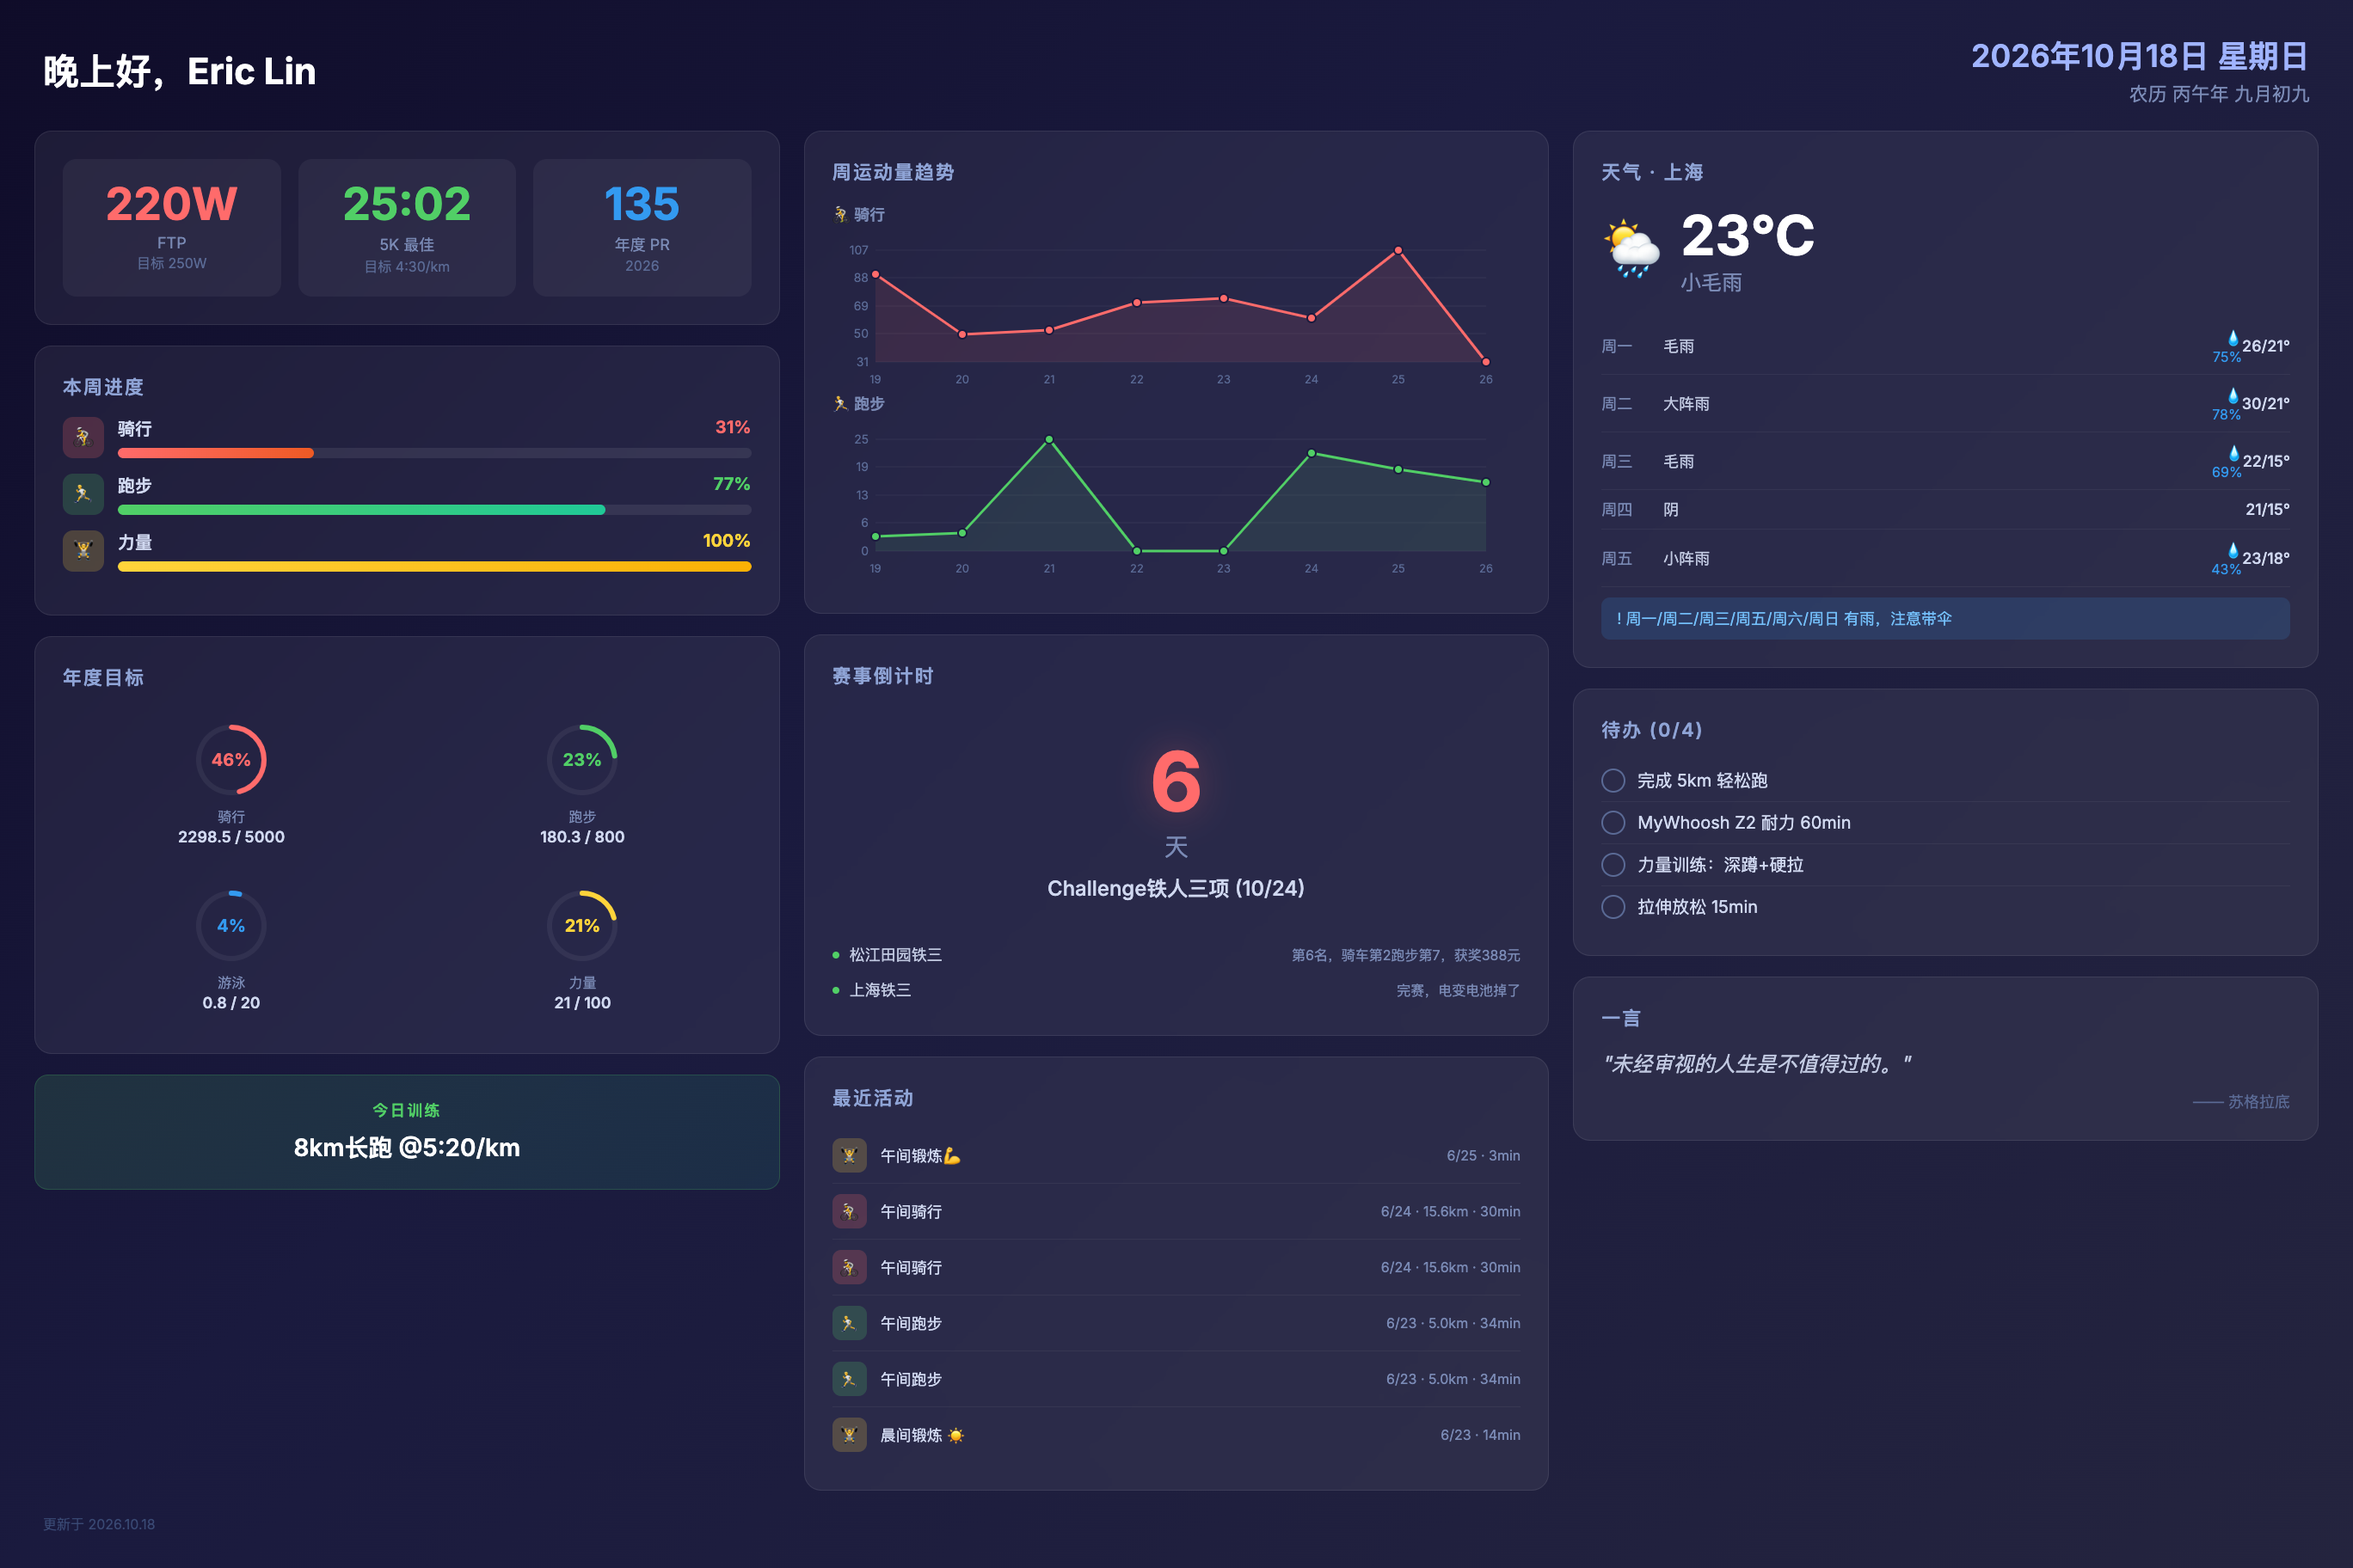
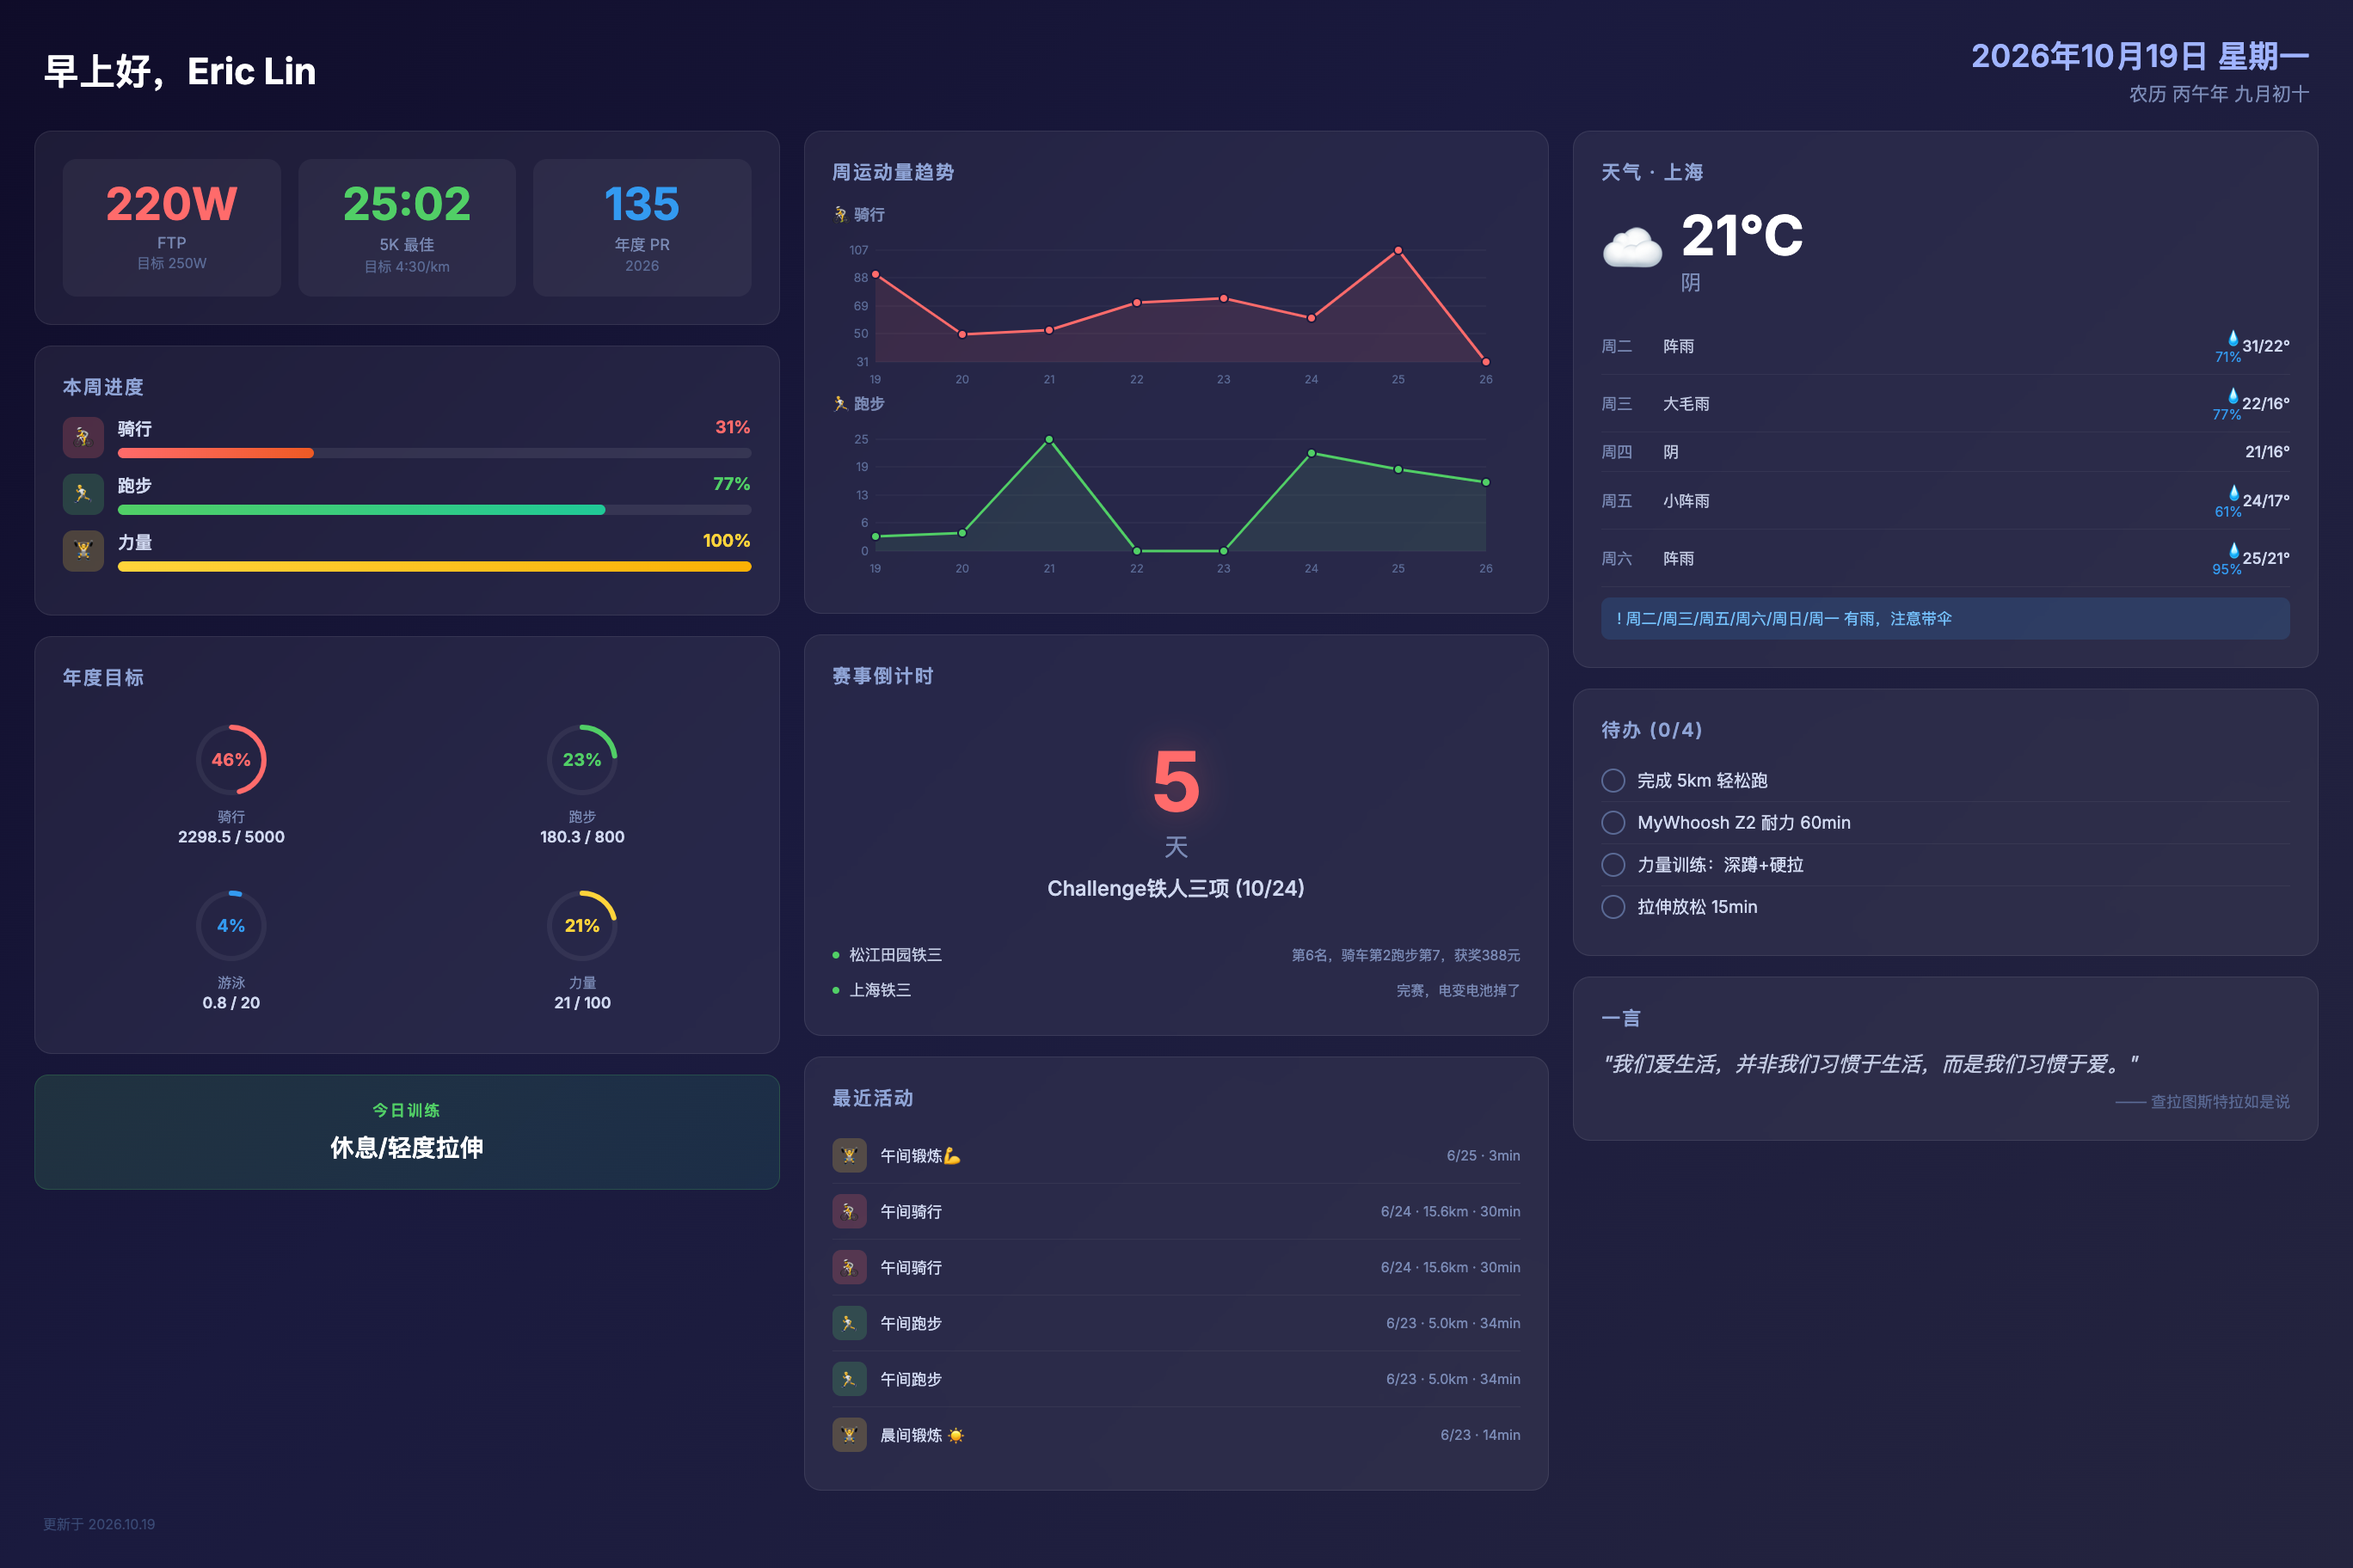
deploy: 2026-10-19-07:00

diff --git a/screensaver.html b/screensaver.html
@@ -490,13 +490,13 @@ html, body {
 <!-- ===== TOP BAR ===== -->
 <div class="top-bar">
   <div>
-    <div class="greeting">晚上好，Eric Lin</div>
+    <div class="greeting">早上好，Eric Lin</div>
     
   </div>
   <div class="date-info">
-    <div class="solar-date">2026年10月18日 星期日</div>
+    <div class="solar-date">2026年10月19日 星期一</div>
     
-    <div class="lunar-date">农历 丙午年 九月初九</div>
+    <div class="lunar-date">农历 丙午年 九月初十</div>
     
   </div>
 </div>
@@ -638,7 +638,7 @@ html, body {
   
   <div class="ai-today-card">
     <div class="ai-today-label">今日训练</div>
-    <div class="ai-today-text">8km长跑 @5:20/km</div>
+    <div class="ai-today-text">休息/轻度拉伸</div>
   </div>
   
 
@@ -732,7 +732,7 @@ html, body {
   <div class="card">
     <div class="card-title">赛事倒计时</div>
     <div class="race-countdown">
-      <div class="countdown-number">6</div>
+      <div class="countdown-number">5</div>
       <div class="countdown-unit">天</div>
       <div class="countdown-name">Challenge铁人三项 (10/24)</div>
     </div>
@@ -808,52 +808,52 @@ html, body {
   <div class="card">
     <div class="card-title">天气 · 上海</div>
     <div class="weather-current">
-      <div class="weather-icon-big">🌦</div>
+      <div class="weather-icon-big">☁</div>
       <div>
-        <div class="weather-temp-big">23°C</div>
-        <div class="weather-desc">小毛雨</div>
+        <div class="weather-temp-big">21°C</div>
+        <div class="weather-desc">阴</div>
       </div>
     </div>
     
     
     <div class="forecast-row">
-      <div class="forecast-day">周一</div>
-      <div class="forecast-desc">毛雨</div>
-      <div class="forecast-precip">💧75%</div>
-      <div class="forecast-range">26/21°</div>
-    </div>
-    
-    <div class="forecast-row">
       <div class="forecast-day">周二</div>
-      <div class="forecast-desc">大阵雨</div>
-      <div class="forecast-precip">💧78%</div>
-      <div class="forecast-range">30/21°</div>
+      <div class="forecast-desc">阵雨</div>
+      <div class="forecast-precip">💧71%</div>
+      <div class="forecast-range">31/22°</div>
     </div>
     
     <div class="forecast-row">
       <div class="forecast-day">周三</div>
-      <div class="forecast-desc">毛雨</div>
-      <div class="forecast-precip">💧69%</div>
-      <div class="forecast-range">22/15°</div>
+      <div class="forecast-desc">大毛雨</div>
+      <div class="forecast-precip">💧77%</div>
+      <div class="forecast-range">22/16°</div>
     </div>
     
     <div class="forecast-row">
       <div class="forecast-day">周四</div>
       <div class="forecast-desc">阴</div>
       <div class="forecast-precip"></div>
-      <div class="forecast-range">21/15°</div>
+      <div class="forecast-range">21/16°</div>
     </div>
     
     <div class="forecast-row">
       <div class="forecast-day">周五</div>
       <div class="forecast-desc">小阵雨</div>
-      <div class="forecast-precip">💧43%</div>
-      <div class="forecast-range">23/18°</div>
+      <div class="forecast-precip">💧61%</div>
+      <div class="forecast-range">24/17°</div>
+    </div>
+    
+    <div class="forecast-row">
+      <div class="forecast-day">周六</div>
+      <div class="forecast-desc">阵雨</div>
+      <div class="forecast-precip">💧95%</div>
+      <div class="forecast-range">25/21°</div>
     </div>
     
     
     
-    <div class="rain-alert">! 周一/周二/周三/周五/周六/周日 有雨，注意带伞</div>
+    <div class="rain-alert">! 周二/周三/周五/周六/周日/周一 有雨，注意带伞</div>
     
   </div>
   
@@ -902,9 +902,9 @@ html, body {
   
   <div class="card">
     <div class="card-title">一言</div>
-    <div class="quote-text">"未经审视的人生是不值得过的。"</div>
+    <div class="quote-text">"我们爱生活，并非我们习惯于生活，而是我们习惯于爱。"</div>
     
-    <div class="quote-from">—— 苏格拉底</div>
+    <div class="quote-from">—— 查拉图斯特拉如是说</div>
     
   </div>
   
@@ -913,7 +913,7 @@ html, body {
 
 <!-- ===== BOTTOM BAR ===== -->
 <div class="bottom-bar">
-  <div class="update-time">更新于 2026.10.18</div>
+  <div class="update-time">更新于 2026.10.19</div>
 </div>
 
 </div>

diff --git a/life.html b/life.html
@@ -89,7 +89,7 @@ html, body {
 <table class="header-table">
   <tr>
     <td class="header-left">生活</td>
-    <td class="header-right">2026.10.18</td>
+    <td class="header-right">2026.10.19</td>
   </tr>
 </table>
 
@@ -137,67 +137,67 @@ html, body {
   <p class="section-title">☀ 天气 · 上海</p>
   <table class="weather-table">
     <tr>
-      <td class="weather-icon">.</td>
-      <td class="weather-temp">23°C</td>
-      <td class="weather-desc">小毛雨</td>
+      <td class="weather-icon">~</td>
+      <td class="weather-temp">21°C</td>
+      <td class="weather-desc">阴</td>
     </tr>
   </table>
   
   <table class="forecast-table">
     
     <tr>
-      <td class="forecast-day">周一</td>
-      <td class="forecast-icon">.</td>
-      <td>毛雨</td>
-      <td class="forecast-range">26/21°C</td>
-    </tr>
-    
-    <tr>
       <td class="forecast-day">周二</td>
       <td class="forecast-icon">|</td>
-      <td>大阵雨</td>
-      <td class="forecast-range">30/21°C</td>
+      <td>阵雨</td>
+      <td class="forecast-range">31/22°C</td>
     </tr>
     
     <tr>
       <td class="forecast-day">周三</td>
       <td class="forecast-icon">.</td>
-      <td>毛雨</td>
-      <td class="forecast-range">22/15°C</td>
+      <td>大毛雨</td>
+      <td class="forecast-range">22/16°C</td>
     </tr>
     
     <tr>
       <td class="forecast-day">周四</td>
       <td class="forecast-icon">~</td>
       <td>阴</td>
-      <td class="forecast-range">21/15°C</td>
+      <td class="forecast-range">21/16°C</td>
     </tr>
     
     <tr>
       <td class="forecast-day">周五</td>
       <td class="forecast-icon">.</td>
       <td>小阵雨</td>
-      <td class="forecast-range">23/18°C</td>
+      <td class="forecast-range">24/17°C</td>
     </tr>
     
     <tr>
       <td class="forecast-day">周六</td>
-      <td class="forecast-icon">!</td>
-      <td>雷暴</td>
-      <td class="forecast-range">25/20°C</td>
+      <td class="forecast-icon">|</td>
+      <td>阵雨</td>
+      <td class="forecast-range">25/21°C</td>
     </tr>
     
     <tr>
       <td class="forecast-day">周日</td>
       <td class="forecast-icon">.</td>
-      <td>小阵雨</td>
+      <td>毛雨</td>
       <td class="forecast-range">29/22°C</td>
+    </tr>
+    
+    <tr>
+      <td class="forecast-day">周一</td>
+      <td class="forecast-icon">~</td>
+      <td>阴</td>
+      <td class="forecast-range">31/21°C</td>
     </tr>
     
   </table>
   
   
-  <div class="rain-alert">! 周一/周二/周三/周五/周六/周日 有雨，注意带伞</div>
+  <div class="rain-alert">! 周二/周三/周五/周六/周日/周一 有雨，注意带伞</div>
   
 </div>
 
@@ -207,10 +207,10 @@ html, body {
   <p class="section-title">📅 今日</p>
   <table class="data-table">
     <tr>
-      <td>2026年10月18日 星期六</td>
+      <td>2026年10月19日 星期日</td>
     </tr>
     <tr>
-      <td>农历丙午年 九月初九</td>
+      <td>农历丙午年 九月初十</td>
     </tr>
   </table>
 </div>
@@ -261,9 +261,9 @@ html, body {
 
 <div class="box">
   <p class="section-title">💬 一言</p>
-  <p class="quote-text">未经审视的人生是不值得过的。</p>
+  <p class="quote-text">我们爱生活，并非我们习惯于生活，而是我们习惯于爱。</p>
   
-  <p class="quote-from">—— 苏格拉底</p>
+  <p class="quote-from">—— 查拉图斯特拉如是说</p>
   
 </div>
 

diff --git a/index.html b/index.html
@@ -74,7 +74,7 @@ html, body {
 <table class="header-table">
   <tr>
     <td class="header-left">Eric Lin · 运动</td>
-    <td class="header-right">2026.10.18</td>
+    <td class="header-right">2026.10.19</td>
   </tr>
 </table>
 
@@ -225,17 +225,10 @@ html, body {
 <div class="ai-plan">
   <div class="ai-plan-title">AI 训练建议</div>
   
-  <div class="ai-today">今日: 长跑 8km @5:20/km</div>
+  <div class="ai-today">今日: 休息</div>
   
   
   <table class="ai-weekly">
-    
-    <tr>
-      <td class="day">周日</td>
-      
-      <td>长跑 8km @5:20/km</td>
-      
-    </tr>
     
     <tr>
       <td class="day">周一</td>
@@ -279,6 +272,13 @@ html, body {
       
     </tr>
     
+    <tr>
+      <td class="day">周日</td>
+      
+      <td>长跑 8km @5:20/km</td>
+      
+    </tr>
+    
   </table>
   
   
@@ -293,7 +293,7 @@ html, body {
   <p class="section-title">即将到来</p>
   
   <div class="countdown-box">
-    <div class="countdown-days">6</div>
+    <div class="countdown-days">5</div>
     <div class="countdown-label">距 Challenge铁人三项 (10/24)</div>
   </div>
   

diff --git a/work.html b/work.html
@@ -89,7 +89,7 @@ html, body {
 <table class="header-table">
   <tr>
     <td class="header-left">工作</td>
-    <td class="header-right">2026.10.18</td>
+    <td class="header-right">2026.10.19</td>
   </tr>
 </table>
 
